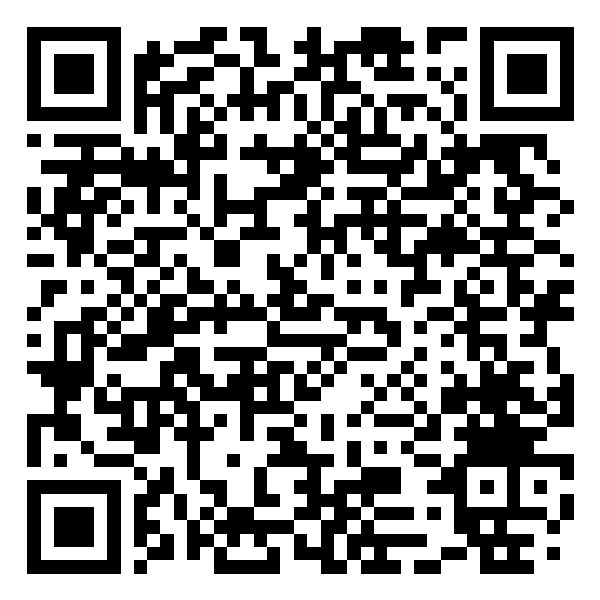
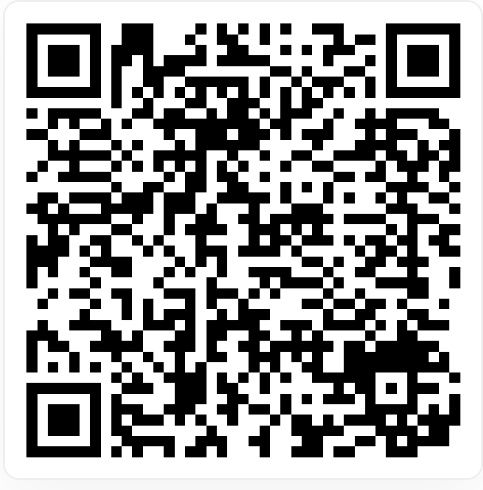
更新

diff --git a/README.md b/README.md
@@ -10,7 +10,7 @@ blinko保存笔记的快捷指令，需要修改一下自己的blinko域名
 
 
 # 下载链接
-https://www.icloud.com/shortcuts/3387c836c8f34f56a929a4b51b240f32
+https://www.icloud.com/shortcuts/71531f94deca4c07961928dddc42f02b
 
 
 # 二维码
